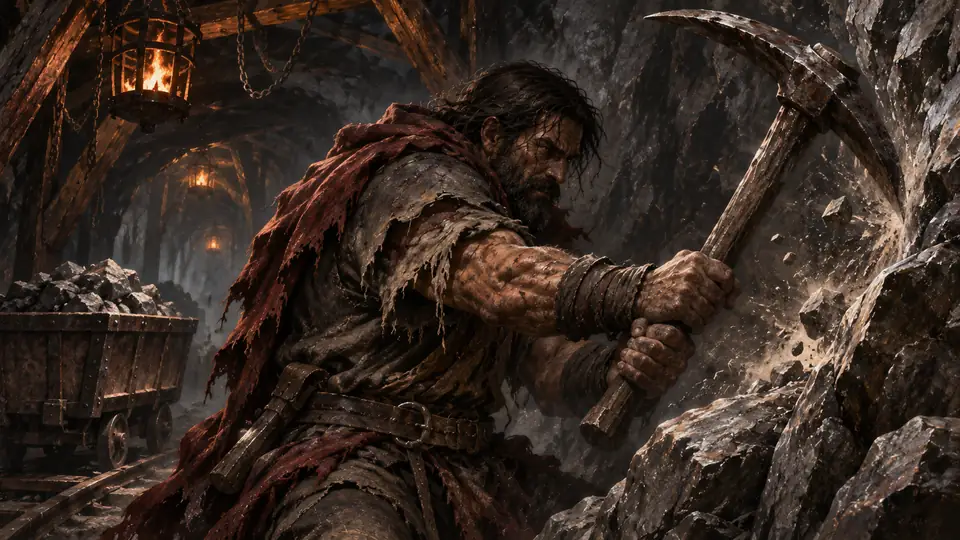
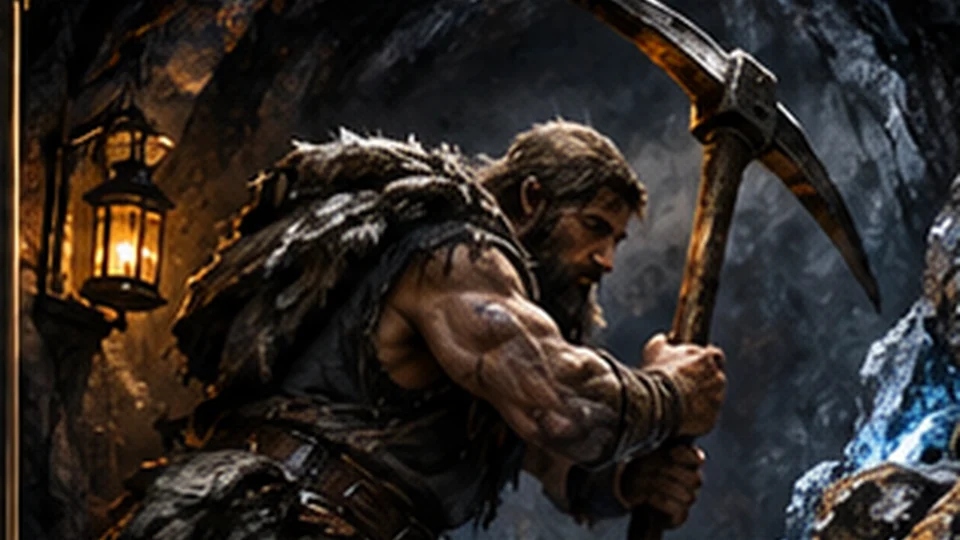
Wire ten unique grimdark activity illustrations (#37)
* feat: select individual painted artwork for all ten activities

* chore: stage owner-approved art pack for automatic import

* art: import ten approved activity WebP paintings

* test: version and validate all ten painted activity scenes

* test: version and validate all ten painted activity scenes

* test: version and validate all ten painted activity scenes

* docs: preserve proven autonomous Drive-to-GitHub binary art workflow

---------

diff --git a/site/play/index.html b/site/play/index.html
@@ -9,7 +9,7 @@
   <link rel="icon" href="../favicon.svg" type="image/svg+xml">
   <link rel="stylesheet" href="./game.css">
   <link rel="stylesheet" href="./iron-ui.css">
-  <script type="module" src="./app.mjs?v=20261121-game003-fix1"></script>
+  <script type="module" src="./app.mjs?v=20261121-art37"></script>
 </head>
 <body>
   <a class="skip-link" href="#game">Skip to game</a>

diff --git a/tools/check_pages_site.py b/tools/check_pages_site.py
@@ -149,7 +149,7 @@ def check():
         assert 'class="right-rail"' in game_html, "Resource/progress panel must exist"
         verify_links(game_parser, play_root)
         checked_links += len(game_parser.links)
-        for name in ("hunting.webp", "mining.webp"):
+        for name in ("hunting.webp", "mining.webp", "woodcutting.webp", "gathering.webp", "fishing.webp", "smelting.webp", "alchemy.webp", "carpentry.webp", "masonry.webp", "cooking.webp"):
             picture = play_root / "assets" / name
             raw = picture.read_bytes()
             assert len(raw) > 30_000, f"Activity painting suspiciously small: {name}"

diff --git a/docs/PROJECT_PLAYBOOK.md b/docs/PROJECT_PLAYBOOK.md
@@ -1,3 +1,13 @@
 # Project playbook — evidence-based reusable lessons
 
 This is **not** another task list. When a real failure or useful workaround occurs, record: trigger → observed issue → prevention → evidence/check → confidence (PROVEN/PROVISIONAL/SUPERSEDED). Never include sensitive user data or transcripts in a public repository.
+
+
+## PROVEN — Upload generated binary artwork without manual user action (2026-11-21)
+
+- **Trigger:** Owner requests replacing game paintings while away from a desktop; GitHub's text-only create/update-file actions cannot safely send WebP bytes.
+- **Working route:** Generate/export artwork as WebP files; package them into a ZIP with exact repository paths. Upload the ZIP to the owner's connected Google Drive using its binary file reference. Fetch the ZIP as raw base64 using the Google Drive connector. Decode the ZIP entries (in this instance, a ZIP with **stored / method 0** entries), verify exactly the expected filenames and RIFF/WebP headers. For each WebP, use GitHub's `create_blob` with `encoding: "base64"`; use `create_tree` with the resulting blob SHAs and the current branch's base tree SHA, `create_commit`, and `update_ref` on the feature branch with expected head SHA. **Do not use text-only `create_file` for binary image bytes.**
+- **Practical workaround:** When ZIP decompression is unavailable in the orchestration runtime, create a ZIP with stored entries, or use a tool capable of extracting binary files. Stored ZIP entries can be parsed directly, but validate the ZIP method, file sizes, names and WebP signatures; never assume all ZIPs are stored. In this run, GitHub's create-tree commit was also briefly staged with a ZIP and an import workflow; the workflow subsequently unpacked and committed the images automatically. Prefer direct per-image blobs when available to avoid temporary import workflows.
+- **Verification:** PR #37 on `feat/activity-art-20261121` listed all ten self-hosted `site/play/assets/*.webp` files; the website and project-protocol CI checks both passed on commit `2414754be8459f5bb26272e6093df30d1debd133`. Image loading was versioned to avoid mixing cached JS and artwork. This proves binary upload and CI integration, **not** live deployment until separately verified.
+- **Security/quality:** Use only owner-approved original assets; never put credentials in the repository; do not merge untested artwork; preserve fallback images; avoid public-sharing changes to Drive files without authorization. Keep generated artifacts in a feature branch until owner merge approval.
+- **Confidence:** PROVEN for this project, with connected Google Drive and GitHub Git-data APIs. Connector availability and size limits may change.
